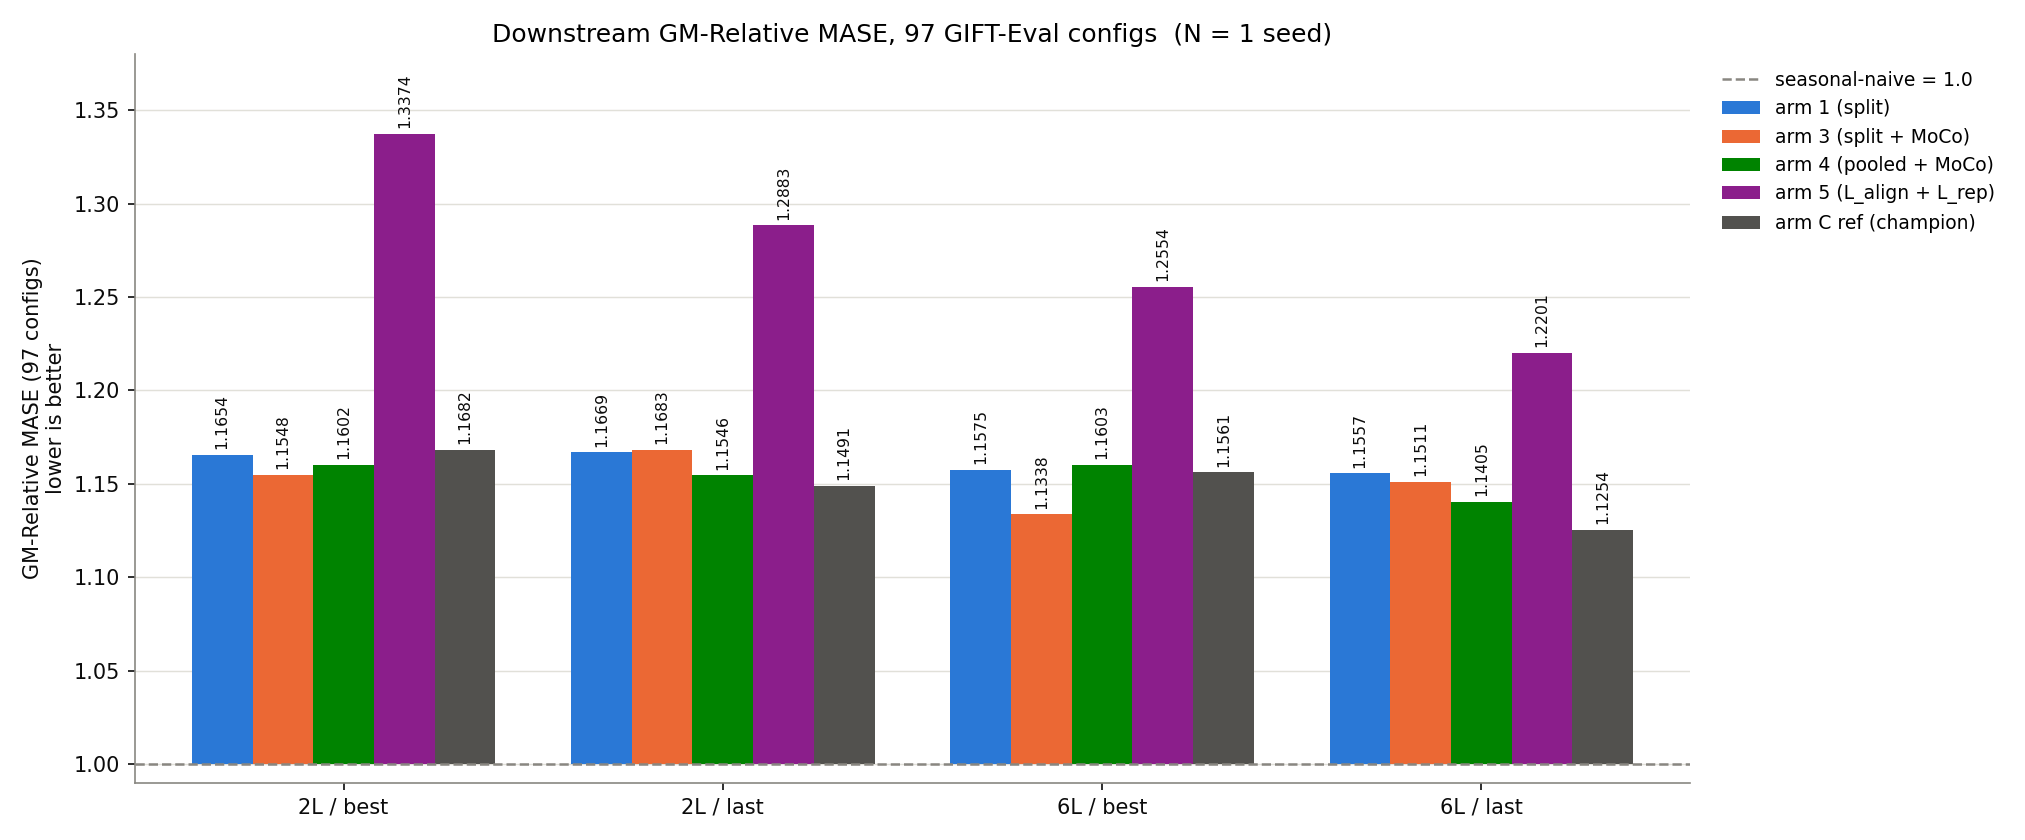
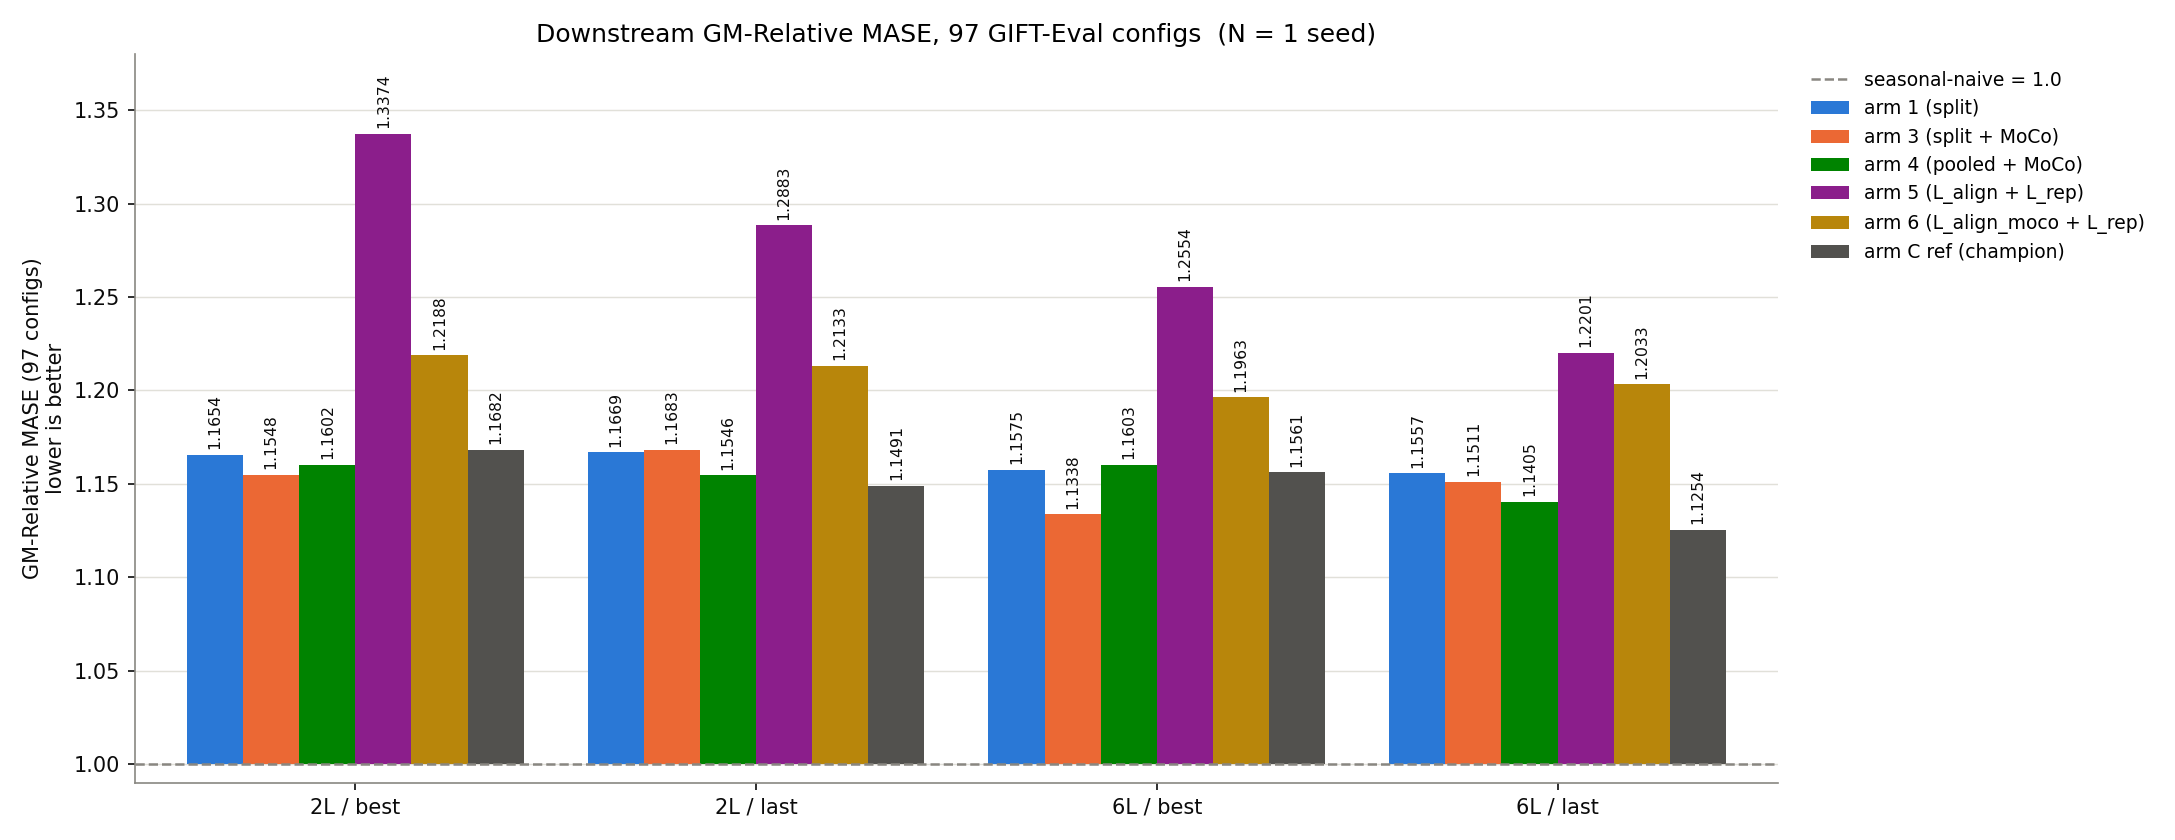
report(374): v55 — arm 6 in headline plot + backbone verifier; §Method flag list updated
**RR v53 Blocking 2 (arm 6 not verified).** Extended
`verify_backbone_steps.sh` to include arm 6: FINAL.pth md5 = best_loss.pth
(step 10,100, 55 saves). Re-ran; verification log now covers arms
1/3/4/5/6.

**Arm 6 in headline plot.** Added arm 6 slot to `_make_plots.py`
(`ARM_SPECS['arm6']`, C_ARM6 = "#b8860b"), regenerated
`headline_relmase.png` — now shows 6 arms (arm 1/3/4/5/6 + arm C ref).

**§Method flag list.** Was "Arms differ in `--loss-shape` and
`--moco-negatives`", missed arms 5 / 6 which vary `--align-loss-weight`
and `--align-moco-loss-weight`. Now: "Arms differ in `--loss-shape`,
`--moco-negatives`, `--align-loss-weight`, and
`--align-moco-loss-weight` (see §Arms)".

**"the four arms" → "the five arms"** in §Selection rule (two
instances).

**PR body** updated: five arms, 40-row Bonferroni family. Arm 6 no
longer listed as pending.

Persistent: arm 6 CI panel builder's arm-5 200 k re-run block doesn't
include arm 6 (12 arm-5 rows only), delete-outright list still
pending.

Claude-Session: https://claude.ai/code/session_01Awaf61Lc6SL22Q25sEK5YQ

diff --git a/reports/2026-07-10_split_pred_rep/plots/_make_plots.py b/reports/2026-07-10_split_pred_rep/plots/_make_plots.py
@@ -23,7 +23,7 @@ EXP = ROOT / "experiments" / "2026-07-10_split_pred_rep"
 SIGREG = ROOT / "experiments" / "2026-06-28_sigreg_lambda_tau_cross"
 
 # Arm colours (validated categorical trio; hatch/linestyle carry identity too).
-C_ARM1, C_ARM3, C_ARM4 = "#2a78d6", "#eb6834", "#008300"
+C_ARM1, C_ARM3, C_ARM4, C_ARM6 = "#2a78d6", "#eb6834", "#008300", "#b8860b"
 # Tensor colours (validated categorical quad).
 C_TENSOR = {
     "log_neg_zy": "#1baf7a",
@@ -45,6 +45,7 @@ ARM_SPECS = {
     "arm3": (EXP / "results", "gift_eval_full_split_pred_rep_moco_xftrip_nobn_enc3_emateach_sigreg_qk_aon_b512_cpc_tau090"),
     "arm4": (EXP / "results_arm4", "gift_eval_full_allt08_moco_xftrip_nobn_enc3_emateach_sigreg_qk_aon_b512_cpc_arm4_tau090"),
     "arm5": (EXP / "results_arm5", "gift_eval_full_lalign_xftrip_nobn_enc3_emateach_sigreg_qk_aon_b512_cpc_arm5_tau090"),
+    "arm6": (EXP / "results_arm6", "gift_eval_full_lalignmoco_xftrip_nobn_enc3_emateach_sigreg_qk_aon_b512_cpc_arm6_tau090"),
 }
 
 
@@ -68,15 +69,16 @@ C_ARM5 = "#8b1e8b"
 
 def headline() -> None:
     champ = champion_cells()
-    fig, ax = plt.subplots(figsize=(13.5, 5.6))
+    fig, ax = plt.subplots(figsize=(14.5, 5.6))
     x = np.arange(len(GROUPS))
-    width = 0.16
+    width = 0.14
     C_CHAMP = "#52514e"
-    arm_slots = [(-2 * width, "arm1", C_ARM1, "arm 1 (split)"),
-                 (-1 * width, "arm3", C_ARM3, "arm 3 (split + MoCo)"),
-                 (0.0,       "arm4", C_ARM4, "arm 4 (pooled + MoCo)"),
-                 (1.0 * width, "arm5", C_ARM5, "arm 5 (L_align + L_rep)"),
-                 (2.0 * width, None,  C_CHAMP, "arm C ref (champion)")]
+    arm_slots = [(-2.5 * width, "arm1", C_ARM1, "arm 1 (split)"),
+                 (-1.5 * width, "arm3", C_ARM3, "arm 3 (split + MoCo)"),
+                 (-0.5 * width, "arm4", C_ARM4, "arm 4 (pooled + MoCo)"),
+                 ( 0.5 * width, "arm5", C_ARM5, "arm 5 (L_align + L_rep)"),
+                 ( 1.5 * width, "arm6", C_ARM6, "arm 6 (L_align_moco + L_rep)"),
+                 ( 2.5 * width, None,  C_CHAMP, "arm C ref (champion)")]
     for off, arm, colour, label in arm_slots:
         if arm is None:
             vals = [champ[g] for g in GROUPS]

diff --git a/reports/2026-07-10_split_pred_rep/split_pred_rep.md b/reports/2026-07-10_split_pred_rep/split_pred_rep.md
@@ -119,10 +119,10 @@ adaptation content either.
 **Selection rule for the `best` column.** The rule as documented is
 "downstream head-train on each backbone's `best_loss.pth` (argmin of
 its own smoothed training loss)". No held-out backbone-validation
-loss enters the protocol, and the four arms optimise different
+loss enters the protocol, and the five arms optimise different
 objectives on different scales (arm 1 ≈ 24 → 25; arm 3 ≈ 23; arm 4
 ≈ 3.3 → 3.6; arm 6 ≈ 31 → 17). As shipped, the rule fires
-inconsistently across the four arms because of a
+inconsistently across the five arms because of a
 checkpoint-promotion gap on arm 1: arm 1's `FINAL.pth` equals
 `final.pth` (step 12,500) — its post-resume `best_loss.pth` was never
 saved (the run log has zero `Saved …_best_loss.pth` events after
@@ -449,8 +449,9 @@ auxiliary predicting `e` from `h` at matched (b, t) indices.
 Backbone training: 12,500 steps, B = 512, T = 4096, C = 1, lr 1e-3,
 seed 20260520, dataset `gift-pretrain-full-4096 / small_v1`, EMA
 teacher τ = 0.90, contrastive τ = 0.10, SIGReg λ_e = λ_h = 1, CPC
-auxiliary. Arms differ in `--loss-shape` and `--moco-negatives`; the
-pooled arm additionally keeps
+auxiliary. Arms differ in `--loss-shape`, `--moco-negatives`,
+`--align-loss-weight`, and `--align-moco-loss-weight` (see §Arms);
+the pooled arm additionally keeps
 `--pos-in-denominator --subtract-contrastive-floor`. Downstream: a
 quantile probe head (2 or 6 layers) trains 30 000 steps on
 `FINAL.pth`, then 10 000 more on `final.pth` (step 12 500). Each head
